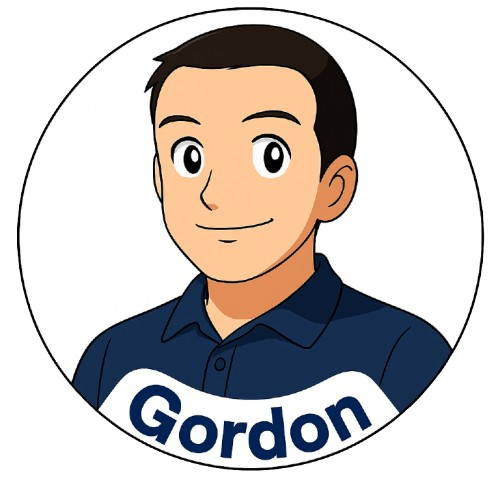
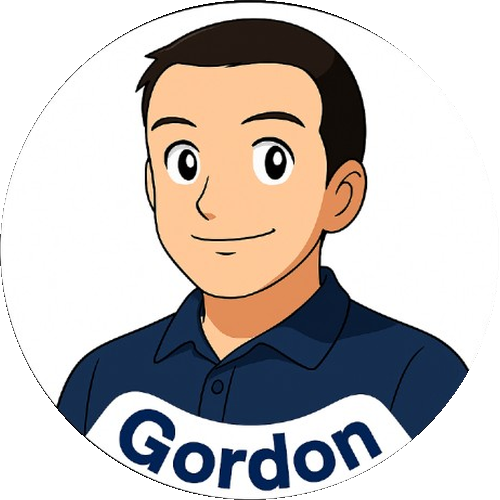
Neue Manager (Schulle, Luki), überarbeitete Avatare, OBS-Rahmen, Stadionbild & Updates
- 11 Manager: Schulle und Luki hinzugefügt (Chips, Manager-Seiten, Navigation)
- Avatare aller Manager überarbeitet (freigestellt)
- Neue Avatar-Dateien: Schulle.png, Luki.png
- Sonderfolge Saisonanalyse in videos.html ergänzt
- Umfrage beendet, Marco als Meister der Herzen eingetragen
- Stadion 2.png als neues Hero-Bild im Portal
- OBS-Rahmen (v1 + v2) mit allen Managerfiguren
- NoBG-Ordner mit freigestellten Ganzköper-Figuren

diff --git a/portal.html b/portal.html
@@ -490,7 +490,7 @@ footer img { height: 28px; vertical-align: middle; margin-right: 8px; opacity: .
 <!-- ── HERO ── -->
 <section class="hero">
   <!-- Tausche hero.png gegen dein Teamfoto aus -->
-  <img class="hero-img" src="hero.png"
+  <img class="hero-img" src="Stadion 2.png"
        alt="Spreeliga Monolog Team"
        onerror="this.style.display='none';document.querySelector('.hero-img-placeholder').style.display='flex'">
   <div class="hero-img-placeholder" style="display:none">⚽</div>
@@ -530,7 +530,7 @@ footer img { height: 28px; vertical-align: middle; margin-right: 8px; opacity: .
   <div class="container" style="padding-top:40px">
     <div class="stats-row">
       <div class="stat-tile">
-        <div class="val">9</div>
+        <div class="val">11</div>
         <div class="lbl">Manager</div>
       </div>
       <div class="stat-tile">
@@ -563,7 +563,7 @@ footer img { height: 28px; vertical-align: middle; margin-right: 8px; opacity: .
       <div class="stats-row" style="margin-bottom:32px">
         <div class="stat-tile"><div class="val">21</div><div class="lbl">Saisons</div></div>
         <div class="stat-tile"><div class="val">9</div><div class="lbl">Verschiedene Meister</div></div>
-        <div class="stat-tile"><div class="val">9</div><div class="lbl">Aktive Manager</div></div>
+        <div class="stat-tile"><div class="val">11</div><div class="lbl">Aktive Manager</div></div>
         <div class="stat-tile"><div class="val">4</div><div class="lbl">Gründungsmitglieder</div></div>
       </div>
 
@@ -698,63 +698,11 @@ footer img { height: 28px; vertical-align: middle; margin-right: 8px; opacity: .
       </div>
 
       <div class="poll-wrap">
-        <!-- Aktive Umfrage -->
-        <div id="ki-poll">
-          <div class="poll-grid">
-            <label class="poll-opt" for="v-gordon">
-              <input type="radio" name="ki-vote" id="v-gordon" value="Gordon Winkel">
-              <img src="Avatare/Gordon.png" alt="Gordon" onerror="this.style.display='none'">
-              <span>Gordon Winkel</span>
-            </label>
-            <label class="poll-opt" for="v-tim">
-              <input type="radio" name="ki-vote" id="v-tim" value="Tim Kurz">
-              <img src="Avatare/Tim.png" alt="Tim" onerror="this.style.display='none'">
-              <span>Tim Kurz</span>
-            </label>
-            <label class="poll-opt" for="v-oli">
-              <input type="radio" name="ki-vote" id="v-oli" value="Oliver Nicklisch">
-              <img src="Avatare/Oli.png" alt="Oli" onerror="this.style.display='none'">
-              <span>Oliver Nicklisch</span>
-            </label>
-            <label class="poll-opt" for="v-mary">
-              <input type="radio" name="ki-vote" id="v-mary" value="Michael Marienwald">
-              <img src="Avatare/Mary.png" alt="Mary" onerror="this.style.display='none'">
-              <span>Michael Marienwald</span>
-            </label>
-            <label class="poll-opt" for="v-chris">
-              <input type="radio" name="ki-vote" id="v-chris" value="Christoph Schlegel">
-              <img src="Avatare/Chris.png" alt="Chris" onerror="this.style.display='none'">
-              <span>Christoph Schlegel</span>
-            </label>
-            <label class="poll-opt" for="v-sche">
-              <input type="radio" name="ki-vote" id="v-sche" value="Nico Schneider">
-              <img src="Avatare/Sche.png" alt="Nico S" onerror="this.style.display='none'">
-              <span>Nico Schneider</span>
-            </label>
-            <label class="poll-opt" for="v-fabi">
-              <input type="radio" name="ki-vote" id="v-fabi" value="Fabian Schulz">
-              <img src="Avatare/Fabi.png" alt="Fabi" onerror="this.style.display='none'">
-              <span>Fabian Schulz</span>
-            </label>
-            <label class="poll-opt" for="v-nico">
-              <input type="radio" name="ki-vote" id="v-nico" value="Nico Wechsel">
-              <img src="Avatare/Nico.png" alt="Nico W" onerror="this.style.display='none'">
-              <span>Nico Wechsel</span>
-            </label>
-            <label class="poll-opt" for="v-marco">
-              <input type="radio" name="ki-vote" id="v-marco" value="Marco Woelki">
-              <img src="Avatare/Marco.png" alt="Marco" onerror="this.style.display='none'">
-              <span>Marco Woelki</span>
-            </label>
-          </div>
-          <button class="poll-btn" id="ki-poll-btn" disabled onclick="kiSubmitVote()">Abstimmen</button>
-        </div>
-
-        <!-- Danke-Zustand (nach Abstimmung) -->
-        <div class="poll-thanks" id="ki-poll-thanks" style="display:none">
-          <div class="pt-icon">🗳</div>
-          <div class="pt-title">Danke für deine Stimme!</div>
-          <div class="pt-sub">Das Ergebnis wird nach Ende der Abstimmung<br>bekannt gegeben.</div>
+        <div class="poll-thanks">
+          <div class="pt-icon">🏆</div>
+          <img src="Avatare/Marco.png" alt="Marco Woelki" style="width:80px;height:80px;border-radius:50%;object-fit:cover;border:3px solid var(--gold);margin:0 auto 14px;display:block;" onerror="this.style.display='none'">
+          <div class="pt-title">Meister der Herzen 2025/26</div>
+          <div class="pt-sub"><strong style="color:var(--gold);font-size:1.05rem">Marco Woelki</strong><br><br>Die Abstimmung ist abgeschlossen. Danke für alle Stimmen!</div>
         </div>
       </div>
     </div>
@@ -1013,7 +961,7 @@ footer img { height: 28px; vertical-align: middle; margin-right: 8px; opacity: .
     <div class="container">
       <div class="section-header">
         <div class="section-label">Die Teilnehmer</div>
-        <h2 class="section-title">9 Manager, 1 Liga</h2>
+        <h2 class="section-title">11 Manager, 1 Liga</h2>
       </div>
 
       <div class="managers-strip">
@@ -1026,6 +974,8 @@ footer img { height: 28px; vertical-align: middle; margin-right: 8px; opacity: .
         <a class="mgr-chip" href="manager-fabi.html"><img src="Avatare/Fabi.png"   alt="Fabi"   onerror="this.style.display='none'"><span>Fabian Schulz</span></a>
         <a class="mgr-chip" href="manager-nico.html"><img src="Avatare/Nico.png"   alt="Nico W" onerror="this.style.display='none'"><span>Nico Wechsel</span></a>
         <a class="mgr-chip" href="manager-marco.html"><img src="Avatare/Marco.png"  alt="Marco"  onerror="this.style.display='none'"><span>Marco Woelki</span></a>
+        <a class="mgr-chip" href="manager-schulle.html"><img src="Avatare/Schulle.png" alt="Schulle" onerror="this.style.display='none'"><span>Chris Schulle Schulze</span></a>
+        <a class="mgr-chip" href="manager-luki.html"><img src="Avatare/Luki.png" alt="Luki" onerror="this.style.display='none'"><span>Lukas Hechmann</span></a>
       </div>
     </div>
   </section>

diff --git a/manager-schulle.html b/manager-schulle.html
@@ -1,0 +1,113 @@
+<!DOCTYPE html>
+<html lang="de">
+<head>
+<meta charset="UTF-8">
+<meta name="viewport" content="width=device-width,initial-scale=1">
+<title>Chris Schulle Schulze – Kader · KickerInter</title>
+<style>
+*,*::before,*::after{box-sizing:border-box;margin:0;padding:0;}
+:root{
+  --bg:#07101e;--bg2:#0d1b2d;--card:#0f2035;--border:#1a3050;
+  --blue:#2563eb;--blue-light:#3b82f6;--blue-muted:#1e3a5f;
+  --gold:#f5c518;--text:#e2e8f0;--muted:#64748b;--muted2:#94a3b8;
+}
+html{scroll-behavior:smooth;}
+body{background:var(--bg);color:var(--text);font-family:-apple-system,BlinkMacSystemFont,'Segoe UI',sans-serif;min-height:100vh;}
+
+/* Header */
+.site-header{display:flex;align-items:center;gap:14px;padding:18px 40px;border-bottom:1px solid var(--border);background:var(--bg2);position:sticky;top:0;z-index:100;}
+.header-center-logo{position:absolute;left:50%;transform:translateX(-50%);height:100px;width:auto;filter:drop-shadow(0 0 14px rgba(56,152,255,.3));pointer-events:none;}
+.site-logo{height:100px;width:auto;}
+.header-nav{margin-left:auto;display:flex;gap:8px;}
+.nav-link{color:var(--muted2);text-decoration:none;font-size:.82rem;font-weight:500;padding:6px 14px;border-radius:20px;border:1px solid var(--border);transition:all .2s;background:rgba(13,27,45,.6);}
+.nav-link:hover{color:var(--text);border-color:var(--blue-light);background:var(--blue-muted);}
+
+/* Page */
+.page{max-width:900px;margin:0 auto;padding:48px 24px 80px;}
+.back-link{display:inline-flex;align-items:center;gap:6px;font-size:.75rem;font-weight:700;letter-spacing:.12em;text-transform:uppercase;color:var(--muted2);text-decoration:none;margin-bottom:28px;transition:color .2s;}
+.back-link:hover{color:var(--blue-light);}
+
+/* Manager hero */
+.mgr-hero{display:flex;align-items:center;gap:24px;margin-bottom:36px;}
+.mgr-avatar-wrap{flex-shrink:0;position:relative;}
+.mgr-avatar{width:90px;height:90px;border-radius:50%;object-fit:cover;border:3px solid var(--border);display:block;}
+.mgr-info{}
+.mgr-season{font-size:.68rem;font-weight:700;letter-spacing:.14em;text-transform:uppercase;color:var(--muted2);margin-bottom:4px;}
+.mgr-name{font-size:clamp(1.6rem,3vw,2.4rem);font-weight:900;letter-spacing:-.03em;line-height:1.1;margin-bottom:10px;}
+.mgr-tags{display:flex;gap:8px;flex-wrap:wrap;}
+.mgr-tag{font-size:.7rem;font-weight:700;letter-spacing:.08em;text-transform:uppercase;background:var(--card);border:1px solid var(--border);border-radius:8px;padding:3px 10px;color:var(--muted2);}
+
+/* Placeholder */
+.placeholder-box{background:var(--card);border:1px solid var(--border);border-radius:14px;padding:40px 32px;text-align:center;color:var(--muted2);}
+.placeholder-box .ph-icon{font-size:2.5rem;margin-bottom:14px;}
+.placeholder-box .ph-title{font-size:1rem;font-weight:700;margin-bottom:8px;color:var(--text);}
+.placeholder-box .ph-sub{font-size:.84rem;line-height:1.7;}
+
+/* Nav */
+.pn-nav{display:flex;justify-content:space-between;align-items:center;margin-top:44px;padding-top:24px;border-top:1px solid var(--border);}
+.pn-link{display:inline-flex;align-items:center;font-size:.78rem;font-weight:700;letter-spacing:.1em;text-transform:uppercase;color:var(--muted2);text-decoration:none;padding:8px 18px;border:1px solid var(--border);border-radius:20px;background:rgba(13,27,45,.6);transition:all .2s;}
+.pn-link:hover{color:var(--text);border-color:var(--blue-light);background:var(--blue-muted);}
+.pn-dis{opacity:.3;cursor:default;}
+.pn-center{font-size:.72rem;font-weight:700;letter-spacing:.12em;text-transform:uppercase;color:var(--muted);}
+
+/* Footer */
+footer{background:var(--bg);border-top:1px solid var(--border);padding:28px 24px;text-align:center;color:var(--muted);font-size:.8rem;}
+footer img{height:28px;vertical-align:middle;margin-right:8px;opacity:.6;}
+
+@media(max-width:640px){
+  .site-header{padding:14px 16px;}.site-logo{height:60px;}.header-center-logo{height:60px;}.header-nav{display:none;}
+  .page{padding:28px 14px 60px;}
+  .mgr-hero{gap:16px;}.mgr-avatar{width:68px;height:68px;}
+}
+</style>
+</head>
+<body>
+
+<header class="site-header">
+  <img class="site-logo" src="Spreeliga Monolog.png" alt="Spreeliga Monolog" onerror="this.style.display='none'">
+  <img src="Spreeliga Logo frei fixed.png" alt="Spreeliga" class="header-center-logo" onerror="this.style.display='none'">
+  <nav class="header-nav">
+    <a class="nav-link" href="portal.html">← Portal</a>
+    <a class="nav-link" href="portal.html#manager">Alle Manager</a>
+  </nav>
+</header>
+
+<div class="page">
+  <a href="portal.html#manager" class="back-link">← Alle Manager</a>
+
+  <!-- Hero -->
+  <div class="mgr-hero">
+    <div class="mgr-avatar-wrap">
+      <img class="mgr-avatar" src="Avatare/Schulle.png" alt="Chris Schulle Schulze" onerror="this.style.background='#1a3050'">
+    </div>
+    <div class="mgr-info">
+      <div class="mgr-season">Saison 2025/26 · Spreeliga</div>
+      <div class="mgr-name">Chris Schulle Schulze</div>
+      <div class="mgr-tags">
+        <span class="mgr-tag">Neu in der Liga</span>
+      </div>
+    </div>
+  </div>
+
+  <!-- Placeholder Kader -->
+  <div class="placeholder-box">
+    <div class="ph-icon">⚽</div>
+    <div class="ph-title">Kader folgt</div>
+    <div class="ph-sub">Die Kaderdaten für Chris Schulle Schulze werden hier hinterlegt,<br>sobald die Saison beginnt.</div>
+  </div>
+
+  <!-- Navigation -->
+  <div class="pn-nav">
+    <a class="pn-link" href="manager-marco.html">← Marco</a>
+    <span class="pn-center">10 / 11 Manager</span>
+    <a class="pn-link" href="manager-luki.html">Luki →</a>
+  </div>
+</div>
+
+<footer>
+  <img src="Spreeliga Monolog.png" alt="Logo" onerror="this.style.display='none'">
+  Spreeliga Monolog · KickerInter · Saison 2025/26
+</footer>
+
+</body>
+</html>

diff --git a/manager-luki.html b/manager-luki.html
@@ -1,0 +1,113 @@
+<!DOCTYPE html>
+<html lang="de">
+<head>
+<meta charset="UTF-8">
+<meta name="viewport" content="width=device-width,initial-scale=1">
+<title>Lukas Hechmann – Kader · KickerInter</title>
+<style>
+*,*::before,*::after{box-sizing:border-box;margin:0;padding:0;}
+:root{
+  --bg:#07101e;--bg2:#0d1b2d;--card:#0f2035;--border:#1a3050;
+  --blue:#2563eb;--blue-light:#3b82f6;--blue-muted:#1e3a5f;
+  --gold:#f5c518;--text:#e2e8f0;--muted:#64748b;--muted2:#94a3b8;
+}
+html{scroll-behavior:smooth;}
+body{background:var(--bg);color:var(--text);font-family:-apple-system,BlinkMacSystemFont,'Segoe UI',sans-serif;min-height:100vh;}
+
+/* Header */
+.site-header{display:flex;align-items:center;gap:14px;padding:18px 40px;border-bottom:1px solid var(--border);background:var(--bg2);position:sticky;top:0;z-index:100;}
+.header-center-logo{position:absolute;left:50%;transform:translateX(-50%);height:100px;width:auto;filter:drop-shadow(0 0 14px rgba(56,152,255,.3));pointer-events:none;}
+.site-logo{height:100px;width:auto;}
+.header-nav{margin-left:auto;display:flex;gap:8px;}
+.nav-link{color:var(--muted2);text-decoration:none;font-size:.82rem;font-weight:500;padding:6px 14px;border-radius:20px;border:1px solid var(--border);transition:all .2s;background:rgba(13,27,45,.6);}
+.nav-link:hover{color:var(--text);border-color:var(--blue-light);background:var(--blue-muted);}
+
+/* Page */
+.page{max-width:900px;margin:0 auto;padding:48px 24px 80px;}
+.back-link{display:inline-flex;align-items:center;gap:6px;font-size:.75rem;font-weight:700;letter-spacing:.12em;text-transform:uppercase;color:var(--muted2);text-decoration:none;margin-bottom:28px;transition:color .2s;}
+.back-link:hover{color:var(--blue-light);}
+
+/* Manager hero */
+.mgr-hero{display:flex;align-items:center;gap:24px;margin-bottom:36px;}
+.mgr-avatar-wrap{flex-shrink:0;position:relative;}
+.mgr-avatar{width:90px;height:90px;border-radius:50%;object-fit:cover;border:3px solid var(--border);display:block;}
+.mgr-info{}
+.mgr-season{font-size:.68rem;font-weight:700;letter-spacing:.14em;text-transform:uppercase;color:var(--muted2);margin-bottom:4px;}
+.mgr-name{font-size:clamp(1.6rem,3vw,2.4rem);font-weight:900;letter-spacing:-.03em;line-height:1.1;margin-bottom:10px;}
+.mgr-tags{display:flex;gap:8px;flex-wrap:wrap;}
+.mgr-tag{font-size:.7rem;font-weight:700;letter-spacing:.08em;text-transform:uppercase;background:var(--card);border:1px solid var(--border);border-radius:8px;padding:3px 10px;color:var(--muted2);}
+
+/* Placeholder */
+.placeholder-box{background:var(--card);border:1px solid var(--border);border-radius:14px;padding:40px 32px;text-align:center;color:var(--muted2);}
+.placeholder-box .ph-icon{font-size:2.5rem;margin-bottom:14px;}
+.placeholder-box .ph-title{font-size:1rem;font-weight:700;margin-bottom:8px;color:var(--text);}
+.placeholder-box .ph-sub{font-size:.84rem;line-height:1.7;}
+
+/* Nav */
+.pn-nav{display:flex;justify-content:space-between;align-items:center;margin-top:44px;padding-top:24px;border-top:1px solid var(--border);}
+.pn-link{display:inline-flex;align-items:center;font-size:.78rem;font-weight:700;letter-spacing:.1em;text-transform:uppercase;color:var(--muted2);text-decoration:none;padding:8px 18px;border:1px solid var(--border);border-radius:20px;background:rgba(13,27,45,.6);transition:all .2s;}
+.pn-link:hover{color:var(--text);border-color:var(--blue-light);background:var(--blue-muted);}
+.pn-dis{opacity:.3;cursor:default;}
+.pn-center{font-size:.72rem;font-weight:700;letter-spacing:.12em;text-transform:uppercase;color:var(--muted);}
+
+/* Footer */
+footer{background:var(--bg);border-top:1px solid var(--border);padding:28px 24px;text-align:center;color:var(--muted);font-size:.8rem;}
+footer img{height:28px;vertical-align:middle;margin-right:8px;opacity:.6;}
+
+@media(max-width:640px){
+  .site-header{padding:14px 16px;}.site-logo{height:60px;}.header-center-logo{height:60px;}.header-nav{display:none;}
+  .page{padding:28px 14px 60px;}
+  .mgr-hero{gap:16px;}.mgr-avatar{width:68px;height:68px;}
+}
+</style>
+</head>
+<body>
+
+<header class="site-header">
+  <img class="site-logo" src="Spreeliga Monolog.png" alt="Spreeliga Monolog" onerror="this.style.display='none'">
+  <img src="Spreeliga Logo frei fixed.png" alt="Spreeliga" class="header-center-logo" onerror="this.style.display='none'">
+  <nav class="header-nav">
+    <a class="nav-link" href="portal.html">← Portal</a>
+    <a class="nav-link" href="portal.html#manager">Alle Manager</a>
+  </nav>
+</header>
+
+<div class="page">
+  <a href="portal.html#manager" class="back-link">← Alle Manager</a>
+
+  <!-- Hero -->
+  <div class="mgr-hero">
+    <div class="mgr-avatar-wrap">
+      <img class="mgr-avatar" src="Avatare/Luki.png" alt="Lukas Hechmann" onerror="this.style.background='#1a3050'">
+    </div>
+    <div class="mgr-info">
+      <div class="mgr-season">Saison 2025/26 · Spreeliga</div>
+      <div class="mgr-name">Lukas Hechmann</div>
+      <div class="mgr-tags">
+        <span class="mgr-tag">Neu in der Liga</span>
+      </div>
+    </div>
+  </div>
+
+  <!-- Placeholder Kader -->
+  <div class="placeholder-box">
+    <div class="ph-icon">⚽</div>
+    <div class="ph-title">Kader folgt</div>
+    <div class="ph-sub">Die Kaderdaten für Lukas Hechmann werden hier hinterlegt,<br>sobald die Saison beginnt.</div>
+  </div>
+
+  <!-- Navigation -->
+  <div class="pn-nav">
+    <a class="pn-link" href="manager-schulle.html">← Schulle</a>
+    <span class="pn-center">11 / 11 Manager</span>
+    <span class="pn-link pn-dis">→</span>
+  </div>
+</div>
+
+<footer>
+  <img src="Spreeliga Monolog.png" alt="Logo" onerror="this.style.display='none'">
+  Spreeliga Monolog · KickerInter · Saison 2025/26
+</footer>
+
+</body>
+</html>

diff --git a/manager-marco.html b/manager-marco.html
@@ -291,8 +291,8 @@ footer img{height:28px;vertical-align:middle;margin-right:8px;opacity:.6;}
   <!-- Navigation -->
   <div class="pn-nav">
     <a class="pn-link" href="manager-nico.html">← Nico W.</a>
-    <span class="pn-center">9 / 9 Manager</span>
-    <span class="pn-link pn-dis">→</span>
+    <span class="pn-center">9 / 10 Manager</span>
+    <a class="pn-link" href="manager-schulle.html">Schulle →</a>
   </div>
 </div>
 

diff --git a/videos.html b/videos.html
@@ -409,6 +409,7 @@ const sonderfolgen = [
   { label: 'Sonderfolge Eindhoven',   id: '0jinZV55u7I' },
   { label: 'Sonderfolge Schneidi',    id: 'KZGb-om7j6c' },
   { label: 'Sonderfolge Wintertransfer', id: 'YDfChTKggGQ' },
+  { label: 'Sonderfolge Saisonanalyse', id: 'Aysodu7T0zU' },
 ];
 
 const PLAY_ICON = `<svg width="22" height="22" viewBox="0 0 24 24" fill="white"><path d="M8 5v14l11-7z"/></svg>`;
